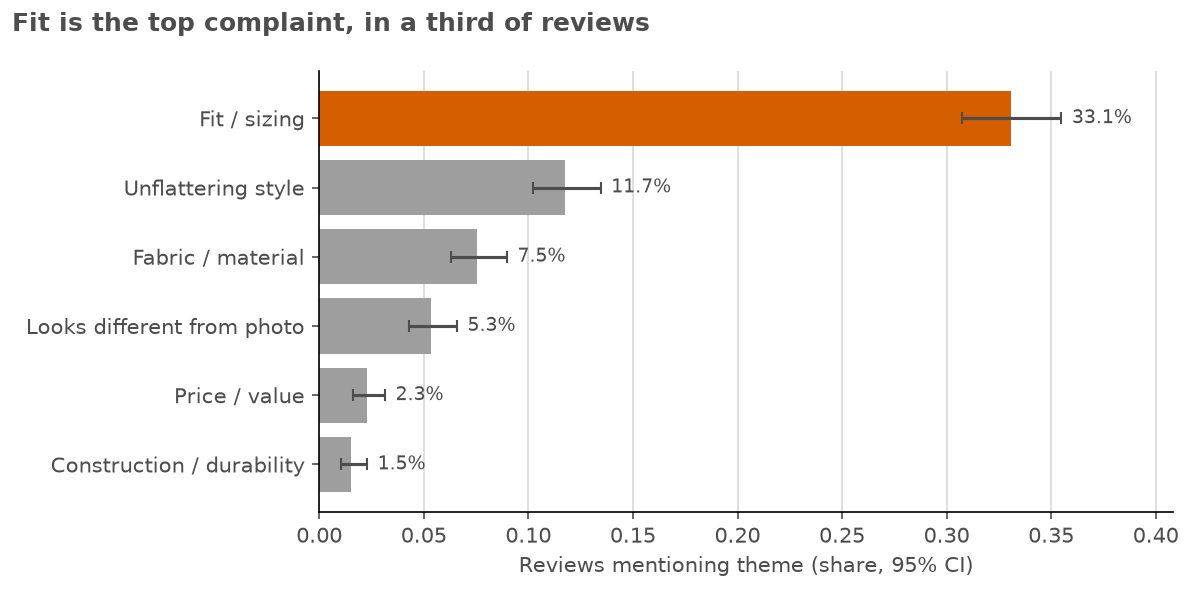
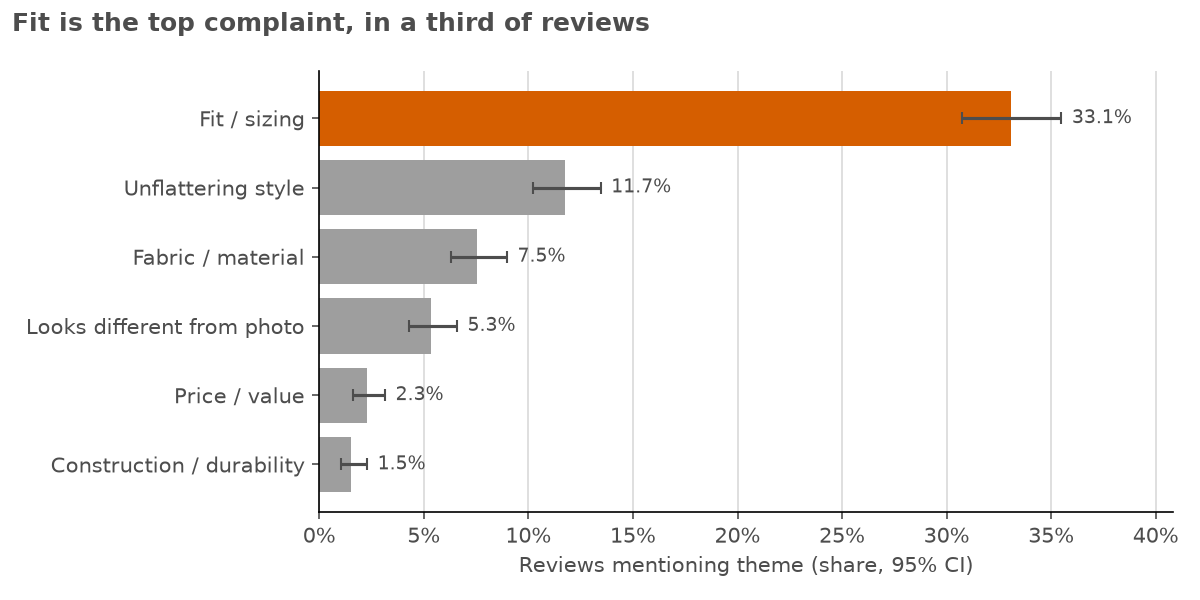
Review fixes: deterministic SQL 03 order, % axis in fig1, shorter axis title, trimmed screenshot, document figure scripts

diff --git a/make_figures.py b/make_figures.py
@@ -3,6 +3,7 @@ import matplotlib.pyplot as plt
 import numpy as np
 import pandas as pd
 from matplotlib.colors import LinearSegmentedColormap
+from matplotlib.ticker import PercentFormatter
 
 ACCENT, GREY, LIGHT, TEXT = "#D55E00", "#9E9E9E", "#D9D9D9", "#4D4D4D"
 NAMES = {"fit": "Fit / sizing", "fabric": "Fabric / material", "build": "Construction / durability",
@@ -32,6 +33,8 @@ def bars(d, x, label, title, xlabel, name, fmt, lo=None, hi=None):
         ax.annotate(fmt.format(v), (e, i), xytext=(5 if v >= 0 else -5, 0), textcoords="offset points",
                     ha="left" if v >= 0 else "right", va="center", fontsize=9)
     ax.margins(x=0.15)
+    if "%" in fmt:
+        ax.xaxis.set_major_formatter(PercentFormatter(1, 0))
     ax.grid(axis="y", visible=False)
     save(fig, title, xlabel, name)
 

diff --git a/app.py b/app.py
@@ -92,7 +92,7 @@ with c1.container(border=True):
 with c2.container(border=True):
     m = mod.sort_values("coef", ascending=False)
     st.plotly_chart(hbar(m, "coef", "name", "Style costs the most stars per mention",
-                         "Change in rating when theme present (stars)", "{:.2f}",
+                         "Rating change (stars)", "{:.2f}",
                          "%{y}: %{x:.2f} stars (95% CI %{customdata[0]:.2f} to %{customdata[1]:.2f})<extra></extra>",
                          lo="ci_low", hi="ci_high"), width="stretch")
     st.caption("So what: a style complaint is the costliest single mention. Full-sample regression controlling for overlapping complaints.")

diff --git a/screenshot.py b/screenshot.py
@@ -10,7 +10,7 @@ srv = subprocess.Popen([sys.executable, "-m", "streamlit", "run", "app.py", "--s
 try:
     with sync_playwright() as p:
         b = p.chromium.launch()
-        page = b.new_page(viewport={"width": 1400, "height": 3300})
+        page = b.new_page(viewport={"width": 1400, "height": 2600})
         for _ in range(30):  # wait for the server to accept connections
             try:
                 page.goto(f"http://localhost:{PORT}")

diff --git a/README.md b/README.md
@@ -92,6 +92,7 @@ python -m kaggle datasets download nicapotato/womens-ecommerce-clothing-reviews 
 python clean.py       # -> data/clean/reviews.parquet, DATA_QUALITY.md
 python classify.py    # needs Ollama running with llama3.2 (ollama pull llama3.2); uses the committed cache, so nothing is re-sent
 python analyze.py     # -> outputs/*.csv
+python make_figures.py; python screenshot.py   # -> assets/*.png (screenshot needs: playwright install chromium)
 streamlit run app.py
 ```
 
